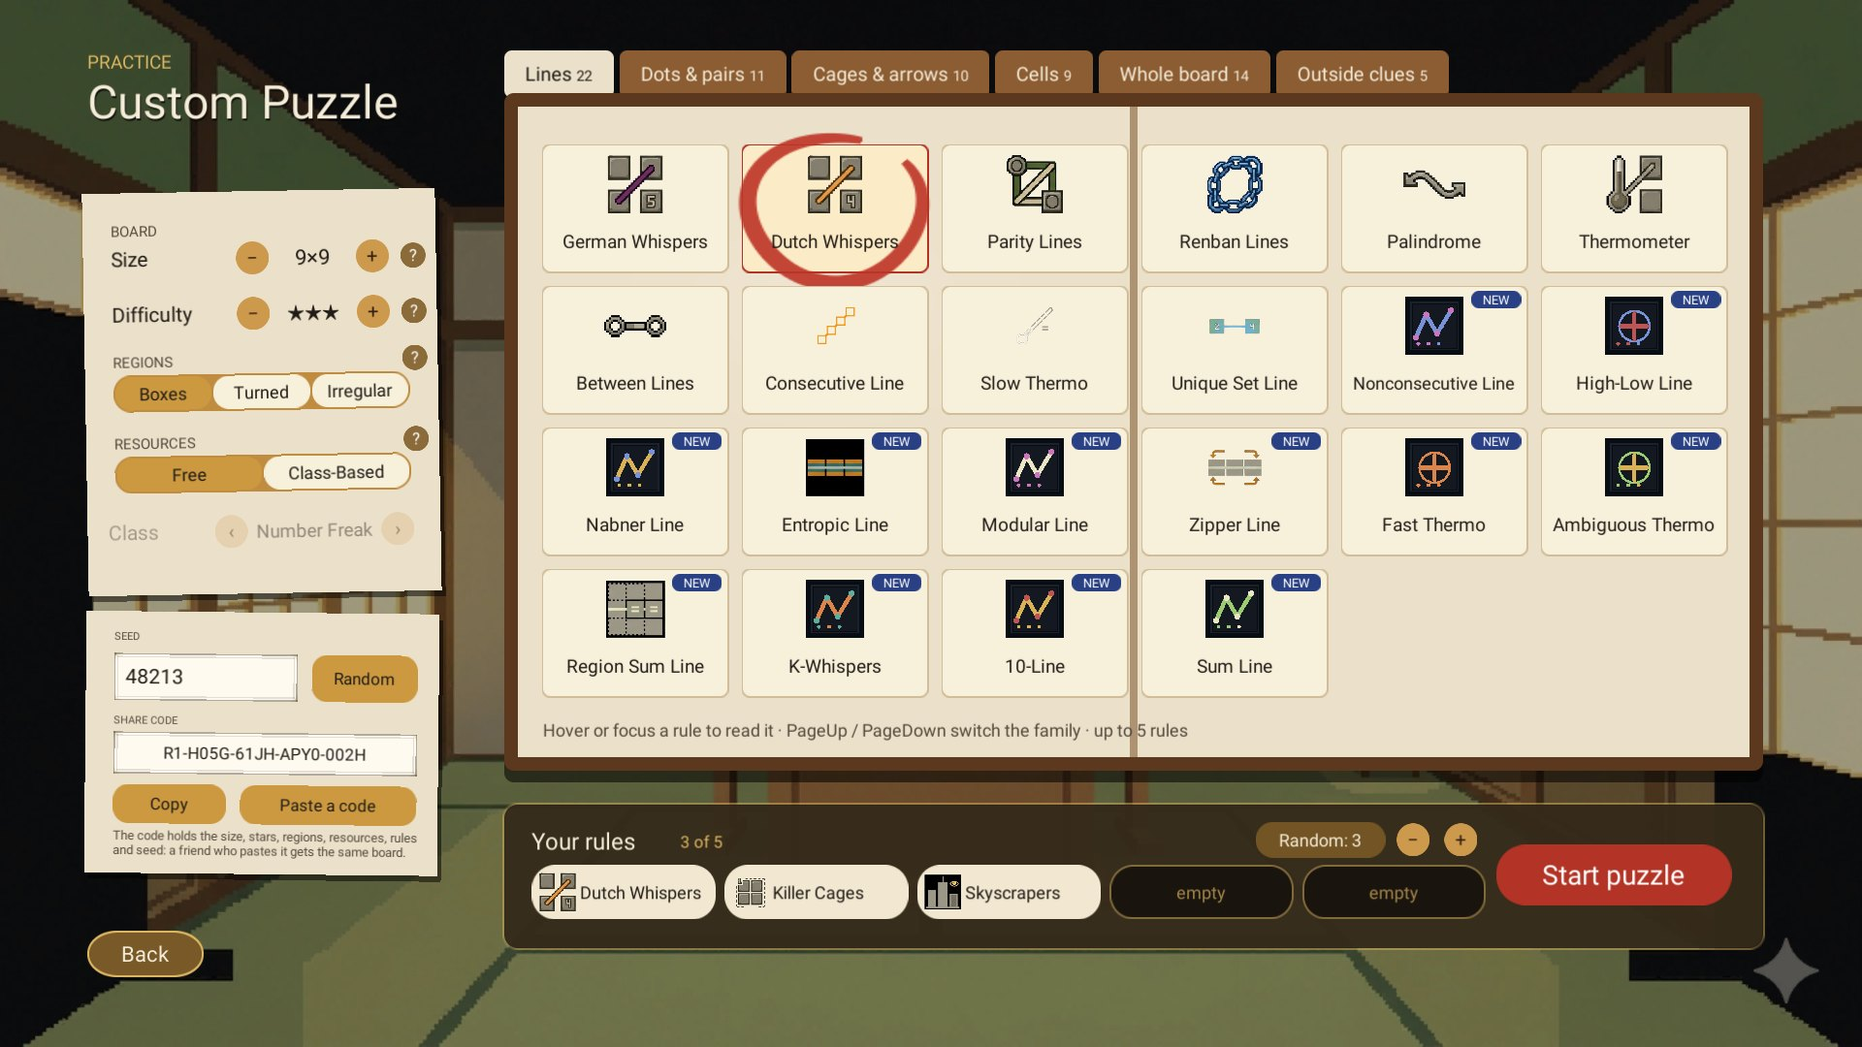
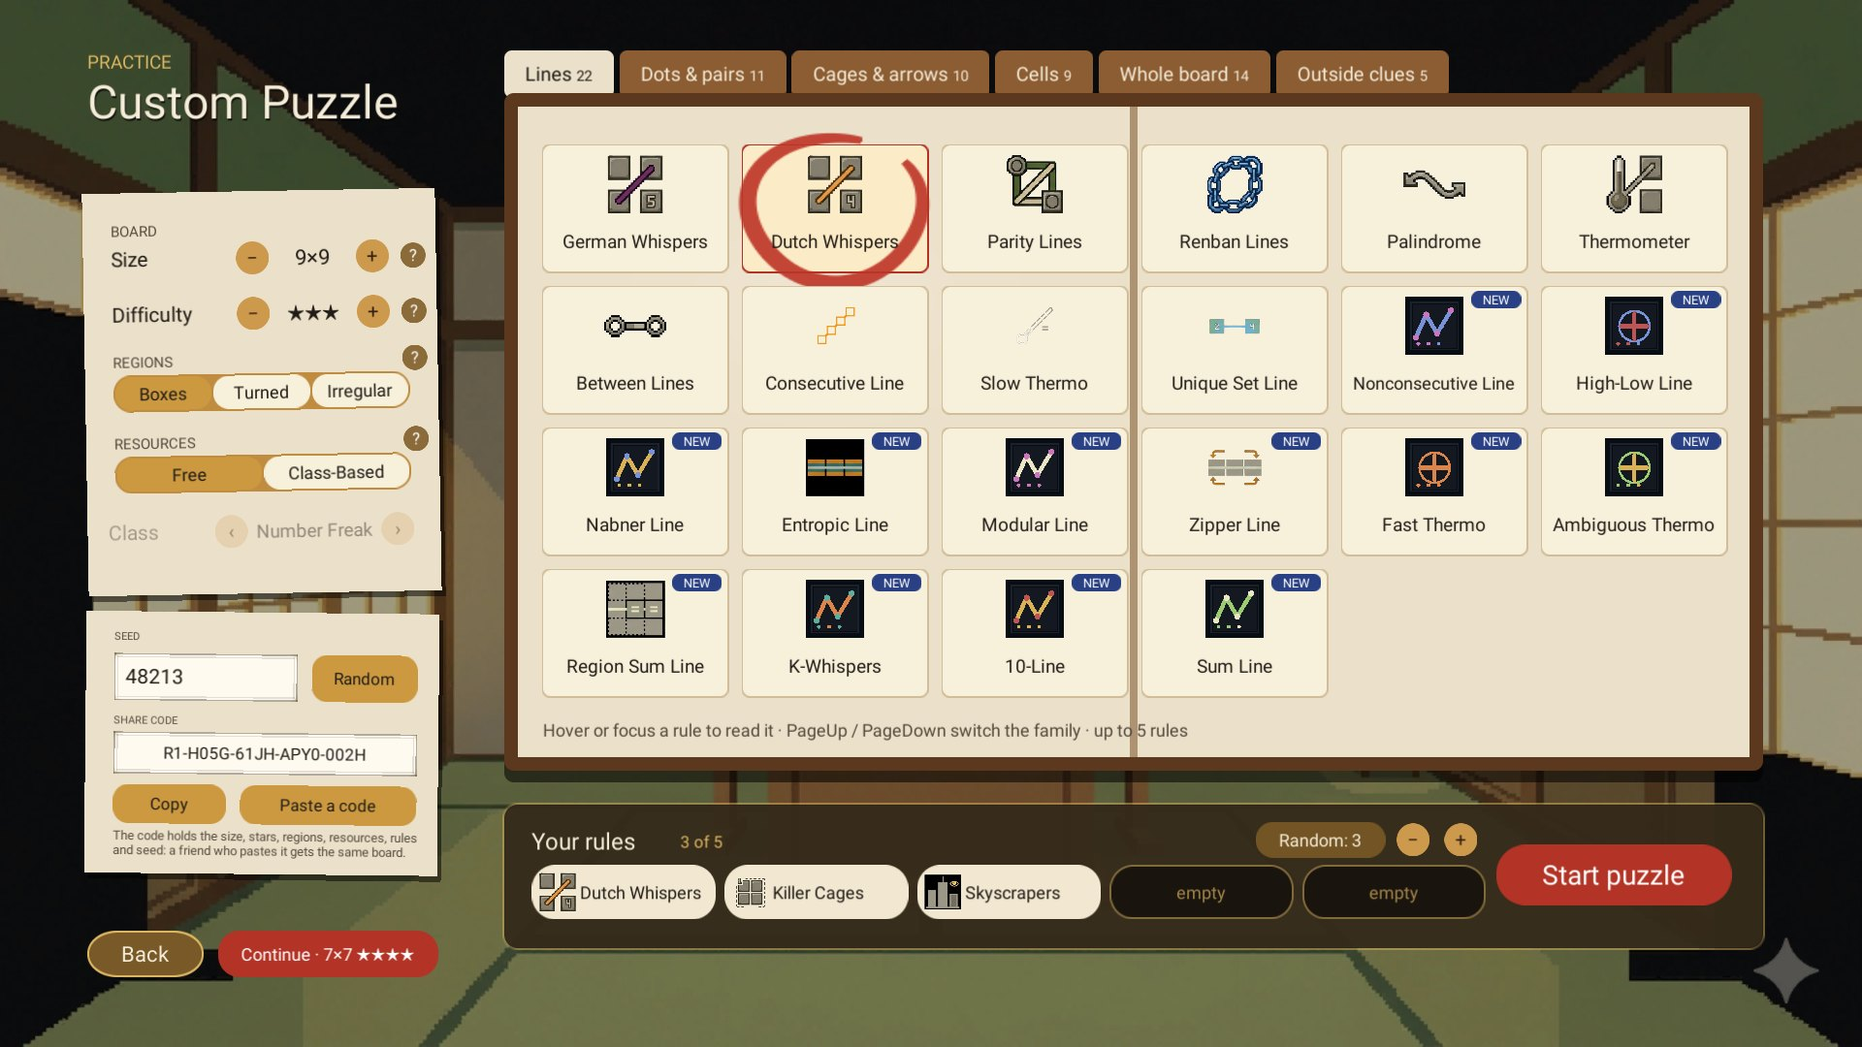
feat: a Custom Puzzle can be saved, quit and continued (RM-209, CUSTOM-SAVE-001)
One saved Custom Puzzle per profile (owner), in a pair of its own beside the
Garden Run and the Monthly Walk (SaveFileEnvelope.ActiveCustomRunState and
ActiveCustomPuzzle, additive). The autosave routes a Custom Puzzle there and
Sudoku Basics nowhere; Save & Quit keeps it, solving it, losing it or
starting a new one clears it. The Custom Puzzle screen shows "Continue ·
7×7 ★★★★" beside Back; Start over a saved puzzle asks first (a second press
within 3 s). LaunchCustomResume rebuilds the board from the saved level.
ResumeSeasonalChallenge is now ResumeSavedPuzzle (used by both).

TutorialModeSystem 1.14 (the 1.12 concept built); SAVE-TUTO-001 covers Sudoku
Basics only.

Changed region(s): [[0.0938, 0.8861, 0.25, 0.9472]]

diff --git a/Assets/Scripts/Tests/EditMode/SaveDurabilityReadinessTests.cs b/Assets/Scripts/Tests/EditMode/SaveDurabilityReadinessTests.cs
@@ -253,6 +253,50 @@ namespace SudokuRoguelike.Tests
             Assert.AreEqual(0, queue.FailedWrites);
         }
 
+        // [REQ: CUSTOM-SAVE-001] RM-209: a Custom Puzzle is saved in a pair of its own beside the Garden Run, continues on
+        // the same board, and is gone once cleared; Sudoku Basics is never saved.
+        [Test]
+        [Requirement("CUSTOM-SAVE-001")]
+        public void ACustomPuzzle_IsSavedBesideTheGardenRun_AndContinuesOnTheSameBoard()
+        {
+            var save = new SaveFileService(TestSlot, new SaveWriteQueue());
+            var coordinator = new RunAutoSaveCoordinator(save);
+            var setup = new TutorialSetupConfig { BoardSize = 7, Stars = 3, Seed = 4242,
+                SelectedModifiers = new System.Collections.Generic.List<BossModifierId> { BossModifierId.KillerCages } };
+            var custom = new RunDirector();
+            custom.StartTutorialRun(setup, setup.Seed);
+            var board = custom.CurrentBoard;
+            int row = -1, col = -1;
+            for (var i = 0; i < board.Size * board.Size && row < 0; i++)
+                if (board.Cells[i / board.Size, i % board.Size] == 0) { row = i / board.Size; col = i % board.Size; }
+            board.PlaceValue(row, col, board.Solution[row, col]);
+
+            coordinator.Save(BuildRunState(9, 1), null);
+            coordinator.Save(custom.State, custom.ExportPuzzleSaveState());
+
+            var loaded = save.Load();
+            Assert.AreEqual(GameMode.GardenRun, loaded.ActiveRunState.Mode, "the Garden Run stays");
+            Assert.IsTrue(SaveFileService.IsCustomPuzzle(loaded.ActiveCustomRunState), "the Custom Puzzle has its own pair");
+            Assert.AreEqual(7, save.SavedCustomPuzzle().BoardSize, "Continue shows its board");
+
+            Assert.IsTrue(new RunResumeService(save).TryResumeCustomFromSave(out var state, out var puzzle));
+            var resumed = new RunDirector();
+            resumed.RestoreState(state);
+            Assert.IsTrue(resumed.ResumeSavedPuzzle(puzzle));
+            Assert.AreEqual(board.Solution[row, col], resumed.CurrentBoard.Cells[row, col], "the placed digit is back");
+            for (var r = 0; r < board.Size; r++)
+            for (var c = 0; c < board.Size; c++)
+                Assert.AreEqual(board.Solution[r, c], resumed.CurrentBoard.Solution[r, c], "the same board");
+
+            coordinator.ClearCustomPuzzle();
+            Assert.IsNull(save.SavedCustomPuzzle(), "cleared once solved, lost or replaced");
+            Assert.NotNull(save.Load().ActiveRunState, "and the Garden Run is untouched");
+
+            var basics = Tutorial.TutorialModeService.CreateSudokuBasicsRunState();
+            coordinator.Save(basics, null);
+            Assert.IsNull(save.Load().ActiveCustomRunState, "Sudoku Basics is not saved");
+        }
+
         [Test]
         public void GameBootstrap_QuitHookFlushesSharedPendingWrites()
         {

diff --git a/Assets/Scripts/UI/MainMenuController.cs b/Assets/Scripts/UI/MainMenuController.cs
@@ -417,6 +417,7 @@ namespace SudokuRoguelike.UI
                 if (IsClassUnlockedOrDebug(cls, meta)) unlocked.Add(cls);
             if (unlocked.Count == 0) unlocked.Add(ClassId.NumberFreak);
             _tutorialMenuController?.RefreshClassDropdown(unlocked);
+            RefreshCustomContinue();
             _menu.Show(MenuScreen.TutorialSetup);
             InRunUiFactory.SelectFirstInteractable(_tutorialSetupPanel);
         }
@@ -925,7 +926,41 @@ namespace SudokuRoguelike.UI
                 return;
             }
 
+            // [REQ: CUSTOM-SAVE-001] Over a saved Custom Puzzle, Start asks first: a second press within 3 s replaces it.
+            if (new SaveFileService(SaveProfileService.ActiveSlot).SavedCustomPuzzle() != null
+                && Time.unscaledTime - _customReplaceAskedAt > CustomReplaceSeconds)
+            {
+                _customReplaceAskedAt = Time.unscaledTime;
+                _tutorialSetupPanel?.GetComponent<CustomPuzzleScreen>()?.ShowMessage(
+                    LocalizationService.T("CustomPuzzle.ReplaceSaved", "This replaces your saved puzzle. Press Start again."));
+                return;
+            }
+
             _gameBootstrap.LaunchTutorial(setup);
+        }
+
+        private const float CustomReplaceSeconds = 3f;
+        private float _customReplaceAskedAt = float.NegativeInfinity;
+
+        /// <summary>[REQ: CUSTOM-SAVE-001] Continues the saved Custom Puzzle (RM-209).</summary>
+        public void ContinueCustomPuzzle()
+        {
+            if (_gameBootstrap == null || _gameBootstrap.LaunchCustomResume()) return;
+            SetStatus(LocalizationService.T("CustomPuzzle.ContinueFailed", "The saved puzzle could not be opened."));
+            RefreshCustomContinue();
+        }
+
+        /// <summary>Shows Continue on the Custom Puzzle screen with the saved board's size, stars and rule count.</summary>
+        private void RefreshCustomContinue()
+        {
+            var button = _tutorialSetupPanel != null ? _tutorialSetupPanel.transform.Find("BtnTutContinue") : null;
+            if (button == null) return;
+            var saved = new SaveFileService(SaveProfileService.ActiveSlot).SavedCustomPuzzle();
+            button.gameObject.SetActive(saved != null);
+            var label = button.Find("Label")?.GetComponent<Text>();
+            if (saved != null && label != null)
+                label.text = LocalizationService.Format("CustomPuzzle.Continue", "Continue · {0}×{0} {1}", saved.BoardSize,
+                    new string('★', Mathf.Clamp(saved.Stars, 1, 7)));
         }
 
         // ── Game Modes ──

diff --git a/Assets/Scripts/Save/RunAutoSaveCoordinator.cs b/Assets/Scripts/Save/RunAutoSaveCoordinator.cs
@@ -24,14 +24,14 @@ namespace SudokuRoguelike.Save
         }
 
         // [REQ: SAVE-AUTO-001] Atomic write before serializing run state
-        // [REQ: SAVE-TUTO-001] Tutorial runs are not persisted
+        // [REQ: SAVE-TUTO-001] Sudoku Basics is not persisted; [REQ: CUSTOM-SAVE-001] a Custom Puzzle has a pair of its own
         public void Save(RunState runState, PuzzleSaveState puzzleState)
         {
-            if (runState == null || runState.TutorialMode) return;
+            if (runState == null || (runState.TutorialMode && !SaveFileService.IsCustomPuzzle(runState))) return;
 
             // Seasonal challenge saves go to a separate slot — do NOT block on DisableProgressionRewards.
             // For all other modes (e.g. SpiritTrials which also sets DisableProgressionRewards), skip.
-            if (!runState.IsSeasonalChallenge && runState.DisableProgressionRewards) return;
+            if (!runState.IsSeasonalChallenge && !runState.TutorialMode && runState.DisableProgressionRewards) return;
             if (runState.Mode == GameMode.IncenseWalk) return;   // [REQ: INCENSE-CLOCK-004] the walk cannot be resumed
 
             runState.SyncSeenModifiersToList();
@@ -53,7 +53,12 @@ namespace SudokuRoguelike.Save
                 ModifierDiscoveryService.MergeCursesIntoMeta(envelope.MetaProgress, runState.CursesSeenThisRun);
             }
 
-            if (runState.IsSeasonalChallenge)
+            if (runState.TutorialMode)
+            {
+                envelope.ActiveCustomRunState = runState;
+                envelope.ActiveCustomPuzzle = puzzleState;
+            }
+            else if (runState.IsSeasonalChallenge)
             {
                 envelope.ActiveSeasonalRunState = runState;
                 envelope.ActiveSeasonalPuzzle = puzzleState;
@@ -91,6 +96,17 @@ namespace SudokuRoguelike.Save
             var envelope = _saveFile.Load();
             envelope.ActiveRunState = null;
             envelope.ActivePuzzle = null;
+            _saveFile.Save(envelope);
+        }
+
+        /// <summary>[REQ: CUSTOM-SAVE-001] Drops the saved Custom Puzzle (solved, lost, or replaced by a new one).</summary>
+        public void ClearCustomPuzzle()
+        {
+            if (!_saveFile.HasSaveFile()) return;
+            var envelope = _saveFile.Load();
+            if (envelope.ActiveCustomRunState == null && envelope.ActiveCustomPuzzle == null) return;
+            envelope.ActiveCustomRunState = null;
+            envelope.ActiveCustomPuzzle = null;
             _saveFile.Save(envelope);
         }
 

diff --git a/Assets/Scripts/UI/InRunSaveQuitPolicy.cs b/Assets/Scripts/UI/InRunSaveQuitPolicy.cs
@@ -7,7 +7,8 @@ namespace SudokuRoguelike.UI
         None,
         SaveResumeState,
         ClearNonProgressionAutosave,
-        ClearFinishedGardenRun
+        ClearFinishedGardenRun,
+        ClearCustomPuzzle   // [REQ: CUSTOM-SAVE-001] solved or lost: nothing left to continue
     }
 
     public readonly struct InRunSaveQuitContext
@@ -17,9 +18,11 @@ namespace SudokuRoguelike.UI
             bool hasCurrentBoard,
             bool hasCurrentLevelState,
             bool onEndScreen,
-            RunState runState)
+            RunState runState,
+            bool levelComplete = false)
         {
             InPuzzle = inPuzzle;
+            LevelComplete = levelComplete;
             HasCurrentBoard = hasCurrentBoard;
             HasCurrentLevelState = hasCurrentLevelState;
             OnEndScreen = onEndScreen;
@@ -31,6 +34,7 @@ namespace SudokuRoguelike.UI
         public bool HasCurrentLevelState { get; }
         public bool OnEndScreen { get; }
         public RunState RunState { get; }
+        public bool LevelComplete { get; }
     }
 
     public readonly struct InRunSaveQuitDecision
@@ -67,6 +71,16 @@ namespace SudokuRoguelike.UI
                     persistenceAction: InRunSaveQuitPersistenceAction.None,
                     shouldShowMonthlyWalkPanel: false);
             }
+
+            // [REQ: CUSTOM-SAVE-001] A Custom Puzzle is kept to continue, until it is solved or lost.
+            if (Save.SaveFileService.IsCustomPuzzle(context.RunState))
+                return new InRunSaveQuitDecision(
+                    shouldBlockReturn: false,
+                    blockedStatusKey: null,
+                    persistenceAction: context.OnEndScreen || context.LevelComplete || context.RunState.CurrentHP <= 0
+                        ? InRunSaveQuitPersistenceAction.ClearCustomPuzzle
+                        : InRunSaveQuitPersistenceAction.SaveResumeState,
+                    shouldShowMonthlyWalkPanel: false);
 
             var runWasSeasonal = context.RunState?.IsSeasonalChallenge == true;
             var supportsResume = context.RunState != null && !context.RunState.DisableProgressionRewards

diff --git a/Assets/Scripts/Bootstrap/GameBootstrap.cs b/Assets/Scripts/Bootstrap/GameBootstrap.cs
@@ -312,7 +312,7 @@ namespace SudokuRoguelike.Bootstrap
             {
                 _run.RestoreState(savedState);
                 // Saves carrying their level definition resume without regenerating the puzzle.
-                if (!_run.ResumeSeasonalChallenge(savedPuzzle))
+                if (!_run.ResumeSavedPuzzle(savedPuzzle))
                 {
                     _run.StartSeasonalChallenge(SeasonalChallengeService.BuildChallengeConfig(now.Year, now.Month));
                     if (savedPuzzle != null && _run.CurrentBoard != null)
@@ -351,6 +351,7 @@ namespace SudokuRoguelike.Bootstrap
                 return;
             }
 
+            _autoSave.ClearCustomPuzzle();   // [REQ: CUSTOM-SAVE-001] a new Custom Puzzle replaces the saved one (the screen asked)
             // [REQ: CUSTOM-SEED-001] The screen's seed, so the same setup and seed give the same board (RM-209).
             var runtimeSeed = setup.Seed > 0 ? setup.Seed : BuildRuntimeSeed(seed);
             _menuMusic.Stop();
@@ -380,6 +381,25 @@ namespace SudokuRoguelike.Bootstrap
             BindRunToMap();
 
             Debug.Log("[GameBootstrap] Launched Sudoku Basics tutorial.");
+        }
+
+        /// <summary>[REQ: CUSTOM-SAVE-001] Continues the saved Custom Puzzle; false, staying on the menu, when there is
+        /// none or it cannot be rebuilt.</summary>
+        public bool LaunchCustomResume()
+        {
+            if (!_resumeService.TryResumeCustomFromSave(out var state, out var puzzle)) return false;
+            _run.DailyGoals = null;
+            _run.RestoreState(state);
+            if (!_run.ResumeSavedPuzzle(puzzle) || _run.CurrentBoard == null)
+            {
+                Debug.LogWarning("[GameBootstrap] The saved Custom Puzzle could not be rebuilt; staying on the menu.");
+                return false;
+            }
+            _menuMusic.Stop();
+            _screenManager.ShowGame();
+            BindRunToMap();
+            Debug.Log("[GameBootstrap] Continued the saved Custom Puzzle.");
+            return true;
         }
 
         public bool LaunchResume()

diff --git a/Assets/Scripts/Save/SaveFileService.cs b/Assets/Scripts/Save/SaveFileService.cs
@@ -171,6 +171,25 @@ namespace SudokuRoguelike.Save
                 && runState.MaxPencil > 0;
         }
 
+        /// <summary>A Custom Puzzle (not Sudoku Basics, which is run number 0).</summary>
+        public static bool IsCustomPuzzle(RunState runState) =>
+            runState != null && runState.TutorialMode && runState.Mode == GameMode.Tutorial && runState.RunNumber > 0;
+
+        // [REQ: CUSTOM-SAVE-001]
+        public static bool IsResumableCustomRunState(RunState runState) =>
+            IsCustomPuzzle(runState) && runState.MaxHP > 0 && runState.CurrentHP > 0;
+
+        /// <summary>The saved Custom Puzzle's board, or null when there is none to continue.</summary>
+        public LevelConfig SavedCustomPuzzle()
+        {
+            if (!HasSaveFile()) return null;
+            var envelope = Load();
+            return IsResumableCustomRunState(envelope.ActiveCustomRunState) && IsUsablePuzzleSave(envelope.ActiveCustomPuzzle)
+                   && envelope.ActiveCustomPuzzle.HasLevelConfig
+                ? envelope.ActiveCustomPuzzle.LevelConfig
+                : null;
+        }
+
         public static bool IsResumableSeasonalRunState(RunState runState)
         {
             return runState != null
@@ -304,6 +323,14 @@ namespace SudokuRoguelike.Save
                 envelope.ActiveSeasonalRunState = null;
             if (!IsUsablePuzzleSave(envelope.ActiveSeasonalPuzzle))
                 envelope.ActiveSeasonalPuzzle = null;
+
+            // [REQ: CUSTOM-SAVE-001] A pair that cannot be continued is dropped as a whole.
+            if (!IsResumableCustomRunState(envelope.ActiveCustomRunState) || !IsUsablePuzzleSave(envelope.ActiveCustomPuzzle)
+                || !envelope.ActiveCustomPuzzle.HasLevelConfig)
+            {
+                envelope.ActiveCustomRunState = null;
+                envelope.ActiveCustomPuzzle = null;
+            }
         }
 
         private static void SanitizeOptions(OptionsState options)

diff --git a/Assets/Scripts/Tests/PlayMode/LayoutScreenshotDiagnostics.cs b/Assets/Scripts/Tests/PlayMode/LayoutScreenshotDiagnostics.cs
@@ -1036,6 +1036,12 @@ namespace SudokuRoguelike.Tests
             if (rootGroup != null) rootGroup.alpha = 1f;
             host.GetComponent<MainMenuController>().ShowMainMenu();
             yield return null;
+            // CUSTOM-SAVE-001 (RM-209): a saved Custom Puzzle, so the screen offers Continue beside Back.
+            var saved = new RunDirector();
+            saved.StartTutorialRun(new TutorialSetupConfig { BoardSize = 7, Stars = 4, Seed = 77 }, 77);
+            var autoSave = new RunAutoSaveCoordinator(new SaveFileService(TestSlot));
+            autoSave.Save(saved.State, saved.ExportPuzzleSaveState());
+            SaveFileService.FlushSharedPendingWrites();
             Find(host, "BtnTutorial").GetComponent<Button>().onClick.Invoke();
             yield return null;
             var setup = host.GetComponentInChildren<TutorialMenuController>(true);
@@ -1054,6 +1060,7 @@ namespace SudokuRoguelike.Tests
             Find(host, "HelpDifficulty").GetComponent<Button>().onClick.Invoke();
             yield return new WaitForSecondsRealtime(0.3f);
             yield return Shoot(host, camera, prefix + "custom_puzzle_help.png");
+            autoSave.ClearCustomPuzzle();
         }
 
         // BOSS-MOD-002 / GAP-048: the line colours on real generated 9×9 puzzles. Every line on a board belongs to a rule

diff --git a/Assets/Scripts/Tests/EditMode/InRunSaveQuitPolicyTests.cs b/Assets/Scripts/Tests/EditMode/InRunSaveQuitPolicyTests.cs
@@ -53,6 +53,21 @@ namespace SudokuRoguelike.Tests
             Assert.IsFalse(decision.ShouldShowMonthlyWalkPanel);
         }
 
+        // [REQ: CUSTOM-SAVE-001] A Custom Puzzle is saved on Save & Quit and dropped once solved or lost.
+        [Test]
+        [Requirement("CUSTOM-SAVE-001")]
+        public void Resolve_SavesACustomPuzzle_UntilItIsSolvedOrLost()
+        {
+            var custom = new RunState { Mode = GameMode.Tutorial, TutorialMode = true, RunNumber = 1, CurrentHP = 5, MaxHP = 5,
+                DisableProgressionRewards = true };
+            InRunSaveQuitPersistenceAction Action(bool onEndScreen, bool complete) => InRunSaveQuitPolicy.Resolve(
+                new InRunSaveQuitContext(true, true, true, onEndScreen, custom, complete)).PersistenceAction;
+
+            Assert.AreEqual(InRunSaveQuitPersistenceAction.SaveResumeState, Action(false, false), "mid-puzzle: kept");
+            Assert.AreEqual(InRunSaveQuitPersistenceAction.ClearCustomPuzzle, Action(false, true), "solved");
+            Assert.AreEqual(InRunSaveQuitPersistenceAction.ClearCustomPuzzle, Action(true, false), "lost, from the end screen");
+        }
+
         [Test]
         public void Resolve_ClearsFinishedGardenRunFromEndScreen()
         {

diff --git a/Assets/Scripts/UI/InRunController.cs b/Assets/Scripts/UI/InRunController.cs
@@ -2564,7 +2564,8 @@ namespace SudokuRoguelike.UI
                 run?.CurrentBoard != null,
                 run?.CurrentLevelState != null,
                 onEndScreen,
-                run?.State));
+                run?.State,
+                run?.IsLevelComplete == true));
 
             if (decision.ShouldBlockReturn)
             {
@@ -2581,6 +2582,10 @@ namespace SudokuRoguelike.UI
                 if (runState != null)
                     runState.TotalRunSeconds += _hudView?.GetPuzzleElapsed() ?? 0f;
                 _map?.SaveNow();
+            }
+            else if (decision.PersistenceAction == InRunSaveQuitPersistenceAction.ClearCustomPuzzle)
+            {
+                new Save.RunAutoSaveCoordinator(new Save.SaveFileService(Save.SaveProfileService.ActiveSlot)).ClearCustomPuzzle();
             }
             else if (decision.PersistenceAction == InRunSaveQuitPersistenceAction.ClearNonProgressionAutosave)
             {

diff --git a/Assets/Scripts/UI/MainMenuBlueprintBuilder.CustomPuzzlePanel.cs b/Assets/Scripts/UI/MainMenuBlueprintBuilder.CustomPuzzlePanel.cs
@@ -43,6 +43,13 @@ namespace SudokuRoguelike.UI
             backBtn.navigation = new Navigation { mode = Navigation.Mode.Automatic };
             backBtn.onClick.AddListener(mc.BackFromPanel);   // GAP-084: back to the screen before
 
+            // [REQ: CUSTOM-SAVE-001] Continue the saved Custom Puzzle (RM-209); OpenTutorial shows it with its board.
+            var continueBtn = ScrollUiKit.PillButton(screen, "BtnTutContinue", new Vector2(0.1172f, 0.0667f), new Vector2(0.2354f, 0.1111f),
+                string.Empty, 18, ScrollUiKit.Vermilion, Color.white, 22f);
+            continueBtn.navigation = new Navigation { mode = Navigation.Mode.Automatic };
+            continueBtn.onClick.AddListener(mc.ContinueCustomPuzzle);
+            continueBtn.gameObject.SetActive(false);
+
             tutCtrl.Configure(startBtn);
             EnsureComponent<CustomPuzzleScreen>(panel).Build(screen, tutCtrl, startBtn);
 

diff --git a/Assets/Scripts/Save/RunResumeService.cs b/Assets/Scripts/Save/RunResumeService.cs
@@ -67,6 +67,19 @@ namespace SudokuRoguelike.Save
             return true;
         }
 
+        /// <summary>[REQ: CUSTOM-SAVE-001] The saved Custom Puzzle, if there is one to continue.</summary>
+        public bool TryResumeCustomFromSave(out RunState runState, out PuzzleSaveState puzzleState)
+        {
+            runState = null;
+            puzzleState = null;
+            if (_saveFile.SavedCustomPuzzle() == null) return false;
+            var envelope = _saveFile.Load();
+            runState = envelope.ActiveCustomRunState;
+            puzzleState = envelope.ActiveCustomPuzzle;
+            RestoreTransientState(runState);
+            return true;
+        }
+
         // [REQ: SAVE-RESUME-001] Restores full run state including boss modifier, AllowIrregularPuzzles
         public bool TryResumeFromSave(out RunState runState, out PuzzleSaveState puzzleState)
         {

diff --git a/Assets/Scripts/Core/SaveModels.cs b/Assets/Scripts/Core/SaveModels.cs
@@ -18,6 +18,10 @@ namespace SudokuRoguelike.Core
         public RunState ActiveSeasonalRunState;
         public PuzzleSaveState ActiveSeasonalPuzzle;
 
+        // [REQ: CUSTOM-SAVE-001] One saved Custom Puzzle per profile, beside the Garden Run and the Monthly Walk (RM-209).
+        public RunState ActiveCustomRunState;
+        public PuzzleSaveState ActiveCustomPuzzle;
+
         public TutorialProgressState TutorialProgress = new TutorialProgressState();
         public ProfileStats Statistics = new ProfileStats();
         public MasteryAchievementState Mastery = new MasteryAchievementState();
